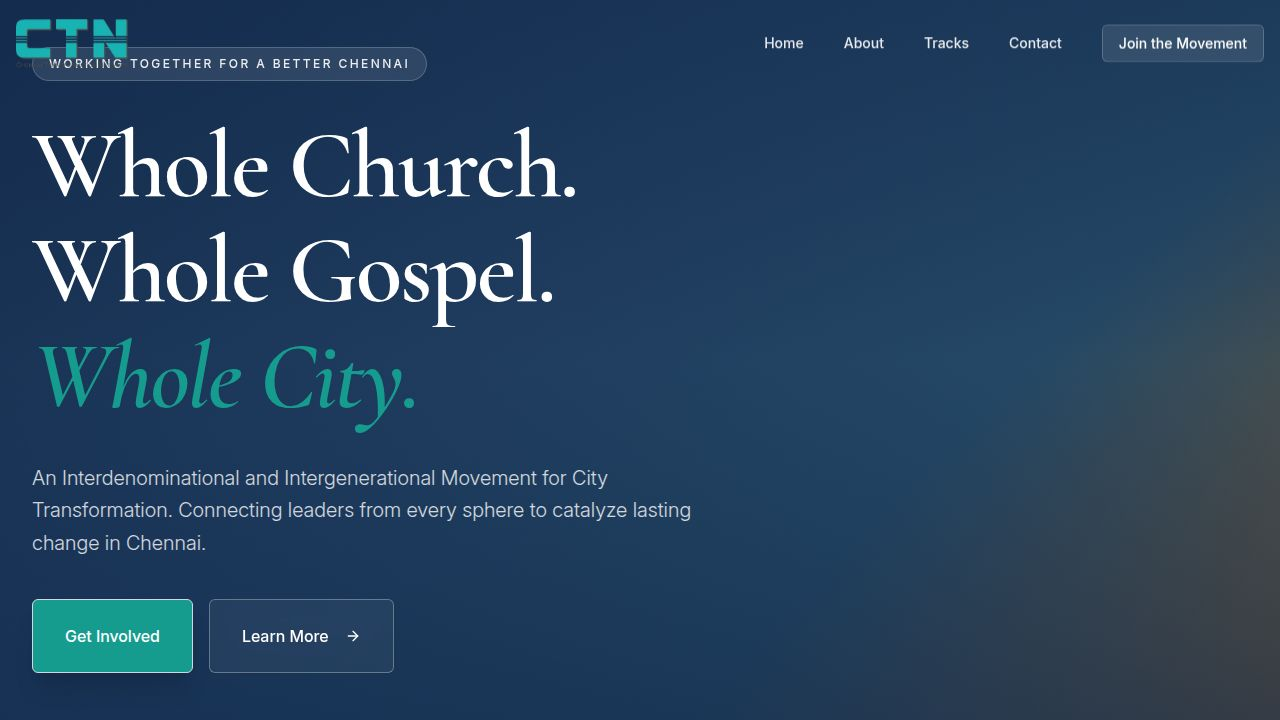
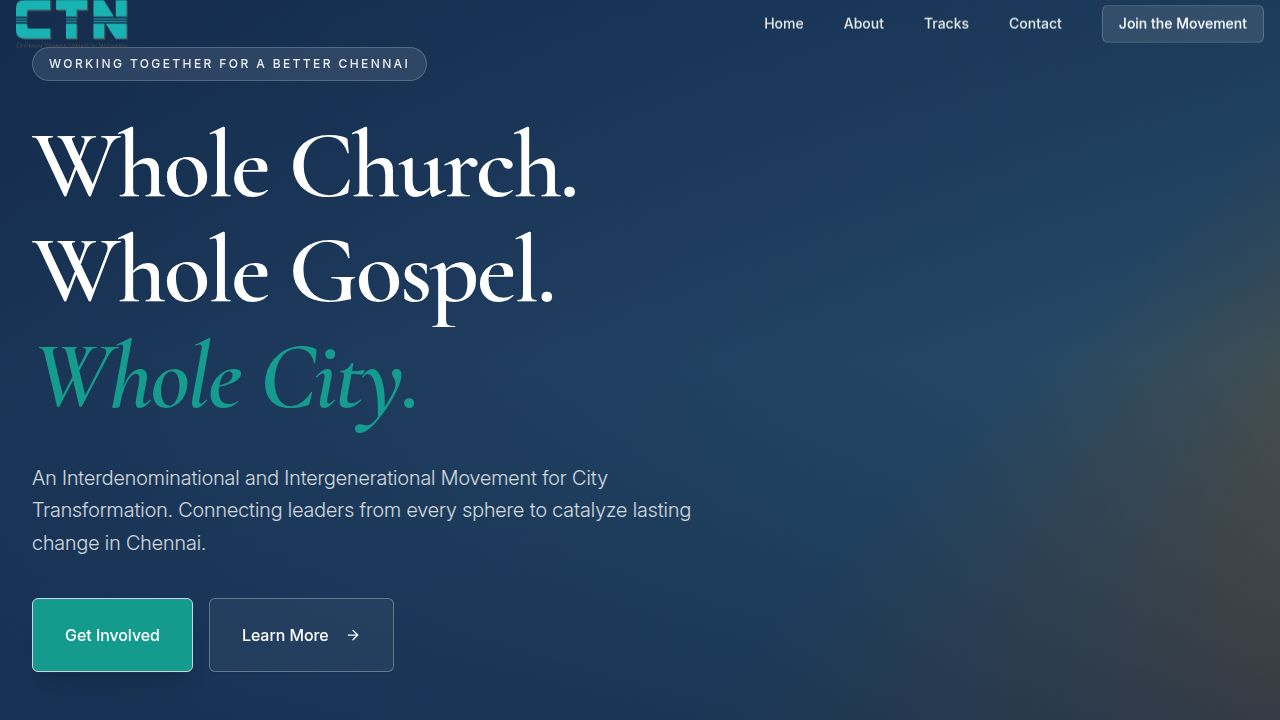
Adjust website layout and update track image
Fix hero section overlap on desktop, update the prayer track image, and address email sending limitations with Resend.

Replit-Commit-Author: Agent
Replit-Commit-Session-Id: 50249acb-10a2-41fd-bf73-d86564462108
Replit-Commit-Checkpoint-Type: full_checkpoint
Replit-Commit-Event-Id: a146da51-4e37-47f1-a518-1123de1bdbc2
Replit-Commit-Screenshot-Url: https://storage.googleapis.com/screenshot-production-us-central1/5f5f8d55-c84a-4ece-b2ee-39d8d74204ae/50249acb-10a2-41fd-bf73-d86564462108/scTiCbk
Replit-Helium-Checkpoint-Created: true

diff --git a/client/src/components/Hero.tsx b/client/src/components/Hero.tsx
@@ -70,7 +70,7 @@ export function Hero() {
       {/* Subtle grain texture */}
[1 lines of base64/hex data omitted]
 
-      <div className="container relative z-20 px-4 md:px-8">
+      <div className="container relative z-20 px-4 md:px-8 pt-24 md:pt-28">
         <motion.div
           variants={staggerContainer}
           initial="hidden"

diff --git a/client/src/pages/Home.tsx b/client/src/pages/Home.tsx
@@ -22,7 +22,7 @@ import {
 } from "lucide-react";
 
 import churchesImg from "@assets/generated_images/churches_united_in_worship.png";
-import prayerImg from "@assets/generated_images/people_praying_together_unity.png";
+import prayerImg from "@assets/stock_images/people_praying_toget_77a5c014.jpg";
 import youthImg from "@assets/generated_images/young_adults_collaborating.png";
 import marketplaceImg from "@assets/generated_images/modern_marketplace_professionals.png";
 import socialImg from "@assets/generated_images/compassionate_social_action.png";
